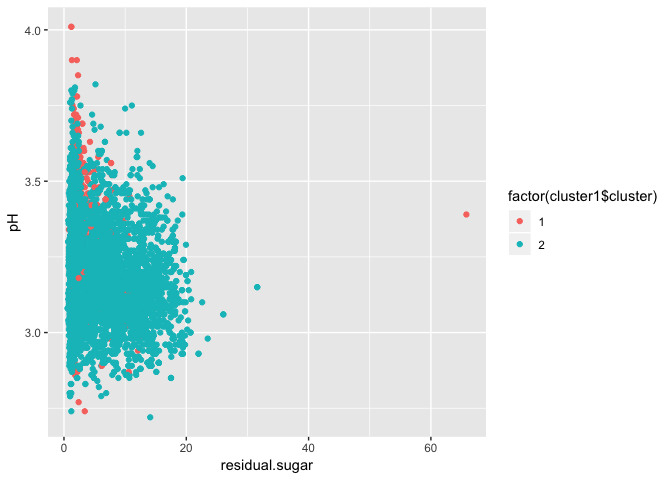
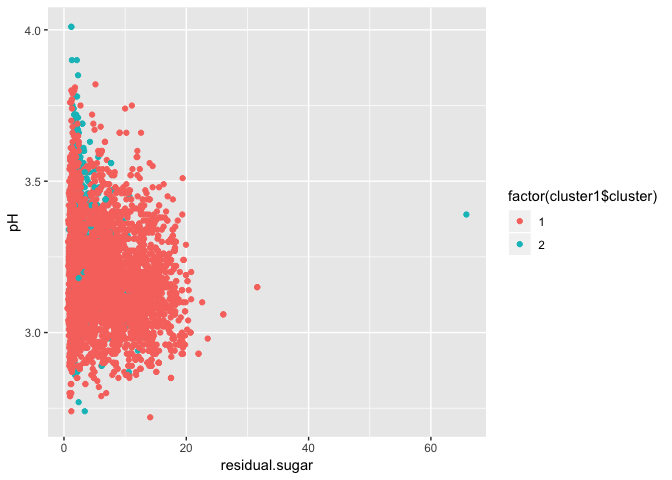
commit

diff --git a/Exercise_4.md b/Exercise_4.md
@@ -196,15 +196,6 @@ We then run k-means clustering. The summary characteristics for the two
 clusters is as follows:
 
     ##        fixed.acidity     volatile.acidity          citric.acid 
-    ##            8.2895922            0.5319416            0.2695435 
-    ##       residual.sugar            chlorides  free.sulfur.dioxide 
-    ##            2.6342666            0.0883238           15.7647596 
-    ## total.sulfur.dioxide              density                   pH 
-    ##           48.6396835            0.9967404            3.3097200 
-    ##            sulphates              alcohol 
-    ##            0.6567194           10.4015216
-
-    ##        fixed.acidity     volatile.acidity          citric.acid 
     ##           6.85167903           0.27458385           0.33524928 
     ##       residual.sugar            chlorides  free.sulfur.dioxide 
     ##           6.39402555           0.04510424          35.52152864 
@@ -212,6 +203,15 @@ clusters is as follows:
     ##         138.45848785           0.99400486           3.18762464 
     ##            sulphates              alcohol 
     ##           0.48880511          10.52235888
+
+    ##        fixed.acidity     volatile.acidity          citric.acid 
+    ##            8.2895922            0.5319416            0.2695435 
+    ##       residual.sugar            chlorides  free.sulfur.dioxide 
+    ##            2.6342666            0.0883238           15.7647596 
+    ## total.sulfur.dioxide              density                   pH 
+    ##           48.6396835            0.9967404            3.3097200 
+    ##            sulphates              alcohol 
+    ##            0.6567194           10.4015216
 
 Based on this information, we are able to see differences between the
 two clusters. The second cluster has notably higher acidity levels,
@@ -226,8 +226,8 @@ seems to do an excellent job in clustering wines by their color.
 
     ##                 wine$color
     ## cluster1$cluster  red white
-    ##                1 1575    68
-    ##                2   24  4830
+    ##                1   24  4830
+    ##                2 1575    68
 
 Based on the granularity of analysis available with k-means clustering,
 we believe it is the technique that makes more sense. We are able to
@@ -271,13 +271,13 @@ useful in clustering by score. Let’s take a look at the raw numbers.
 
     ##                 wine$quality
     ## cluster2$cluster   3   4   5   6   7   8   9
-    ##                1   5  63 414 538 143  29   0
-    ##                2   7  24 653 646 122  21   1
-    ##                3   2   2  27  16   2   0   0
-    ##                4   2  28 297 501 179  30   0
-    ##                5   4  20  77 529 450  97   4
-    ##                6   6  64 472 343  43   2   0
-    ##                7   4  15 198 263 140  14   0
+    ##                1   7  24 655 640 122  22   0
+    ##                2   4  15 200 265 141  14   0
+    ##                3   1   2  20   9   1   0   0
+    ##                4   2  27 269 475 189  31   0
+    ##                5   7  63 471 350  43   2   0
+    ##                6   4  21  77 548 446  97   4
+    ##                7   5  64 446 549 137  27   1
 
 The table shows that each of the 7 clusters basically has a random
 distribution of wines. The k-means technique is also not able to
@@ -423,10 +423,10 @@ relevant subsets based on confidence, lift, and support later.
     ## Absolute minimum support count: 152 
     ## 
     ## set item appearances ...[0 item(s)] done [0.00s].
-    ## set transactions ...[169 item(s), 15296 transaction(s)] done [0.01s].
+    ## set transactions ...[169 item(s), 15296 transaction(s)] done [0.03s].
     ## sorting and recoding items ... [71 item(s)] done [0.00s].
-    ## creating transaction tree ... done [0.02s].
-    ## checking subsets of size 1 2 3 done [0.01s].
+    ## creating transaction tree ... done [0.01s].
+    ## checking subsets of size 1 2 3 done [0.00s].
     ## writing ... [45 rule(s)] done [0.00s].
     ## creating S4 object  ... done [0.01s].
 
@@ -631,7 +631,31 @@ plot.
 
 ![](Exercise_4_files/figure-gfm/unnamed-chunk-39-2.png)<!-- -->
 
-We then find the following 10 “best” associations.
+We then find the following 10 “best”
+    associations.
+
+    ##      lhs                   rhs                support    confidence
+    ## [1]  {curd}             => {whole milk}       0.01261768 0.3683206 
+    ## [2]  {butter}           => {whole milk}       0.01438285 0.4036697 
+    ## [3]  {pip fruit}        => {tropical fruit}   0.01268305 0.2607527 
+    ## [4]  {tropical fruit}   => {pip fruit}        0.01268305 0.1879845 
+    ## [5]  {citrus fruit}     => {tropical fruit}   0.01248692 0.2346437 
+    ## [6]  {tropical fruit}   => {citrus fruit}     0.01248692 0.1850775 
+    ## [7]  {tropical fruit}   => {root vegetables}  0.01098326 0.1627907 
+    ## [8]  {root vegetables}  => {tropical fruit}   0.01098326 0.1567164 
+    ## [9]  {root vegetables}  => {other vegetables} 0.02536611 0.3619403 
+    ## [10] {other vegetables} => {root vegetables}  0.02536611 0.2038886 
+    ##      lift     count
+    ## [1]  2.241875 193  
+    ## [2]  2.457036 220  
+    ## [3]  3.864800 194  
+    ## [4]  3.864800 194  
+    ## [5]  3.477820 191  
+    ## [6]  3.477820 191  
+    ## [7]  2.322805 168  
+    ## [8]  2.322805 168  
+    ## [9]  2.909216 388  
+    ## [10] 2.909216 388
 
     ## set of 45 rules
     ## 
